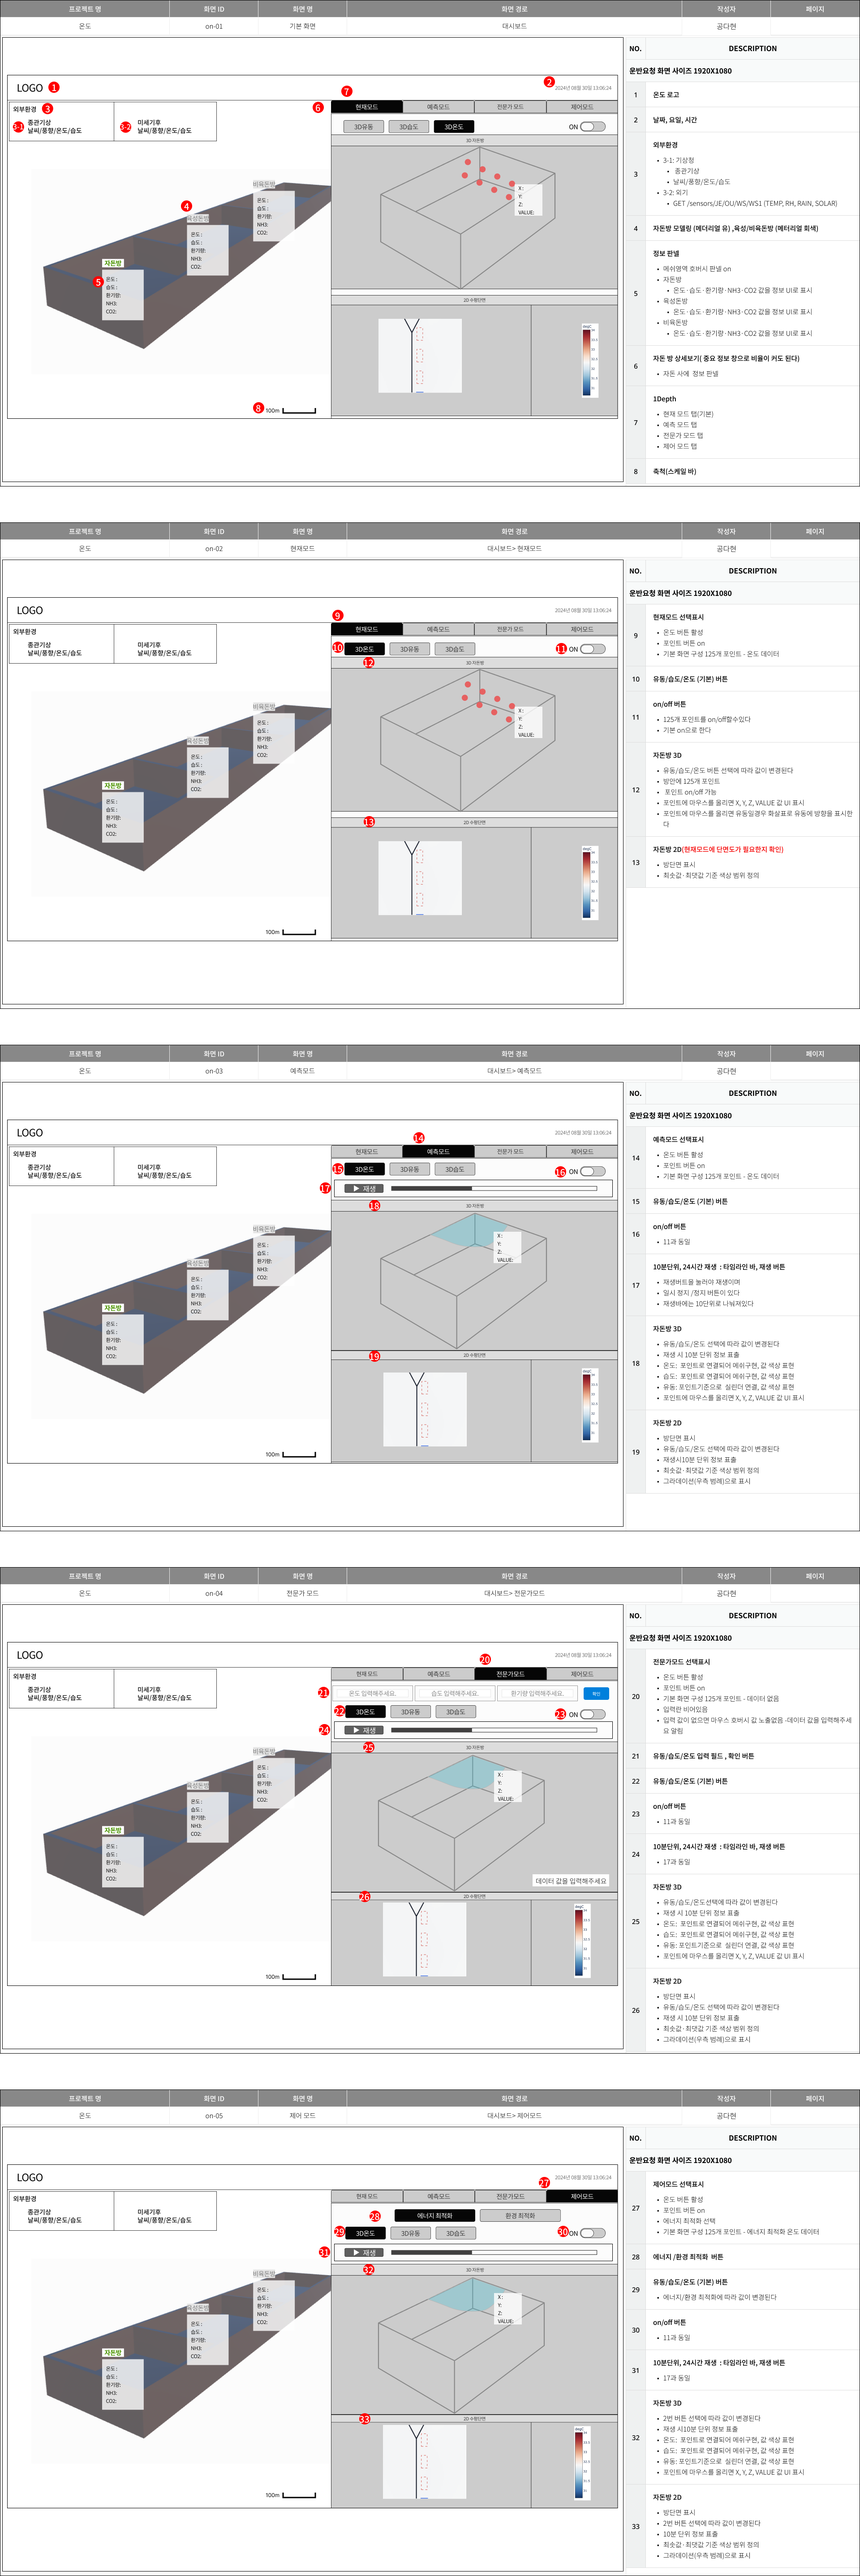
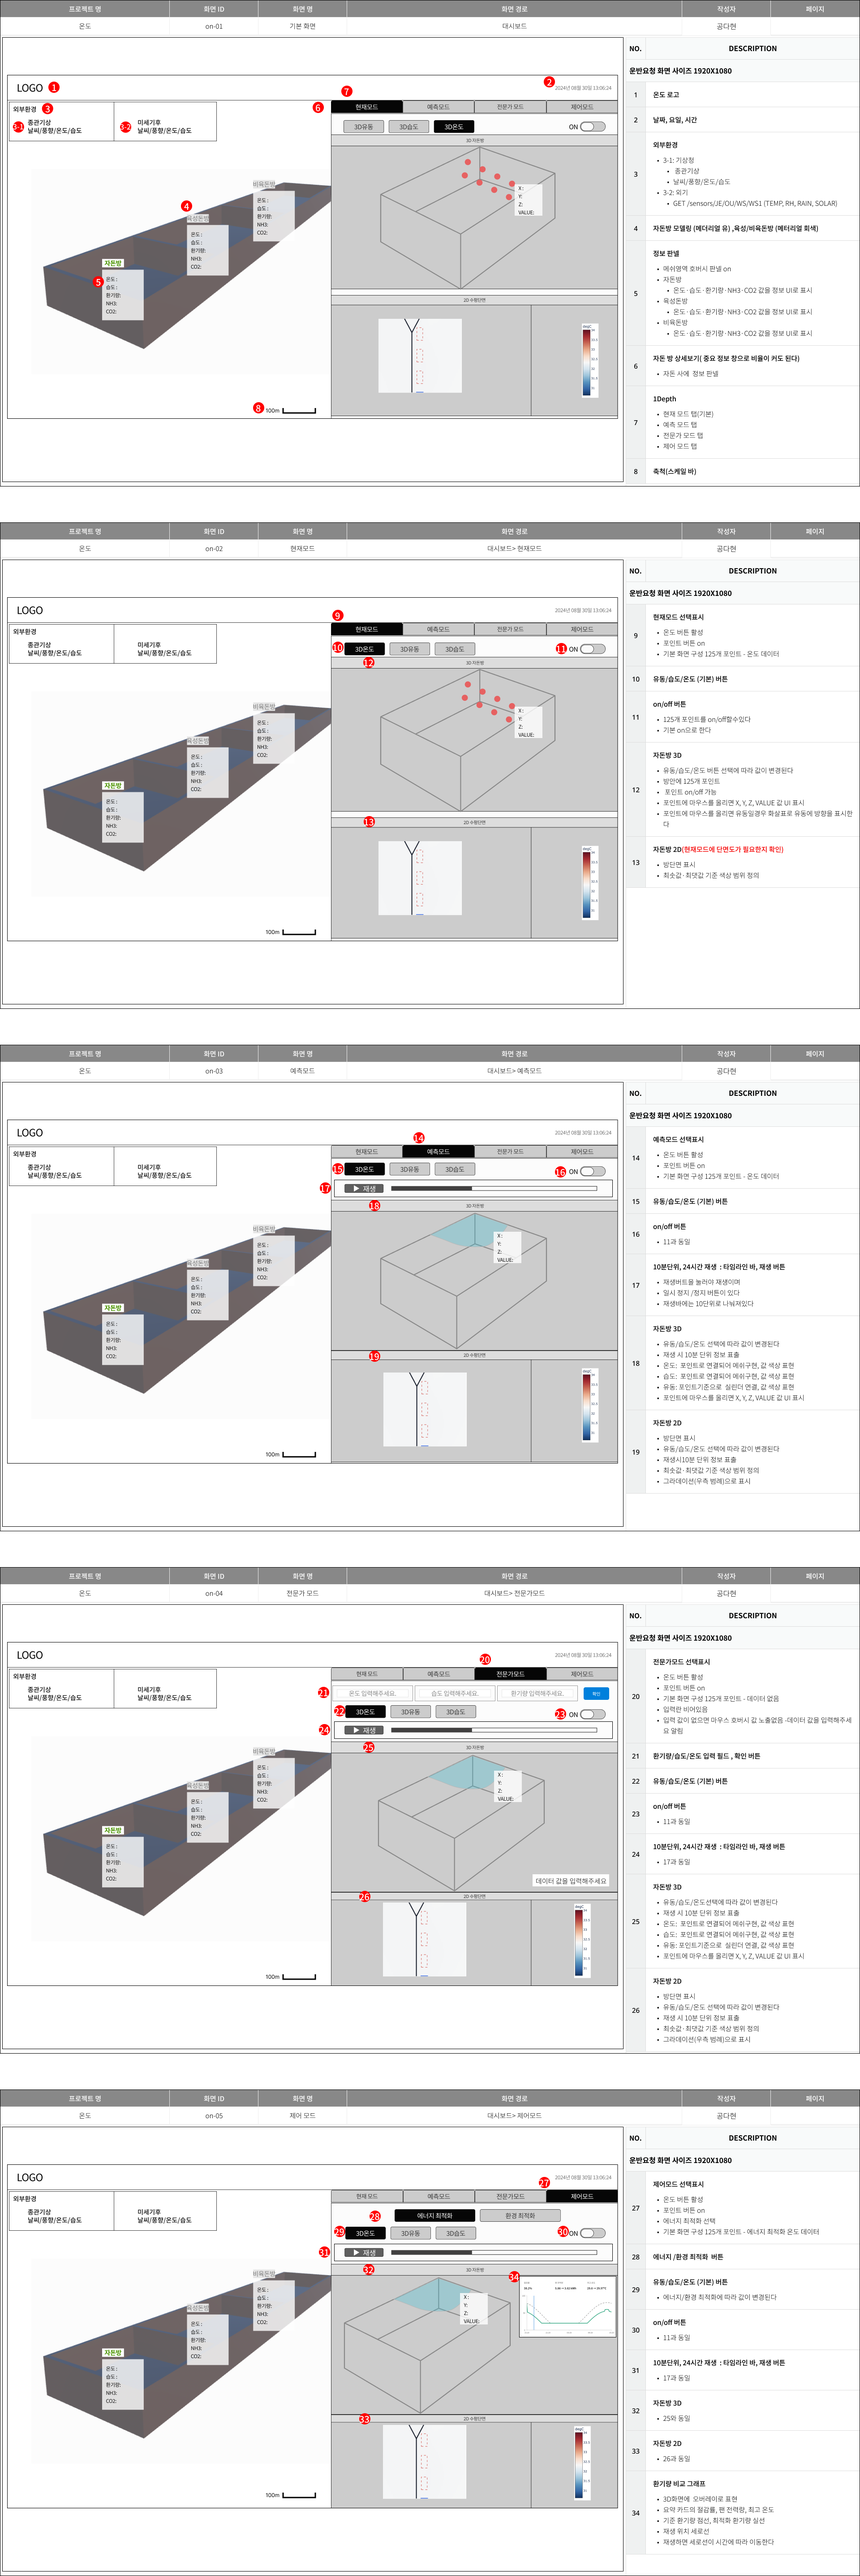
docs: 화면설계서 C안 반영본 갱신 + 제어 모드 요약카드 레퍼런스 추가
screen-design.png를 on-05 34번(환기량 비교 그래프, C안 오버레이)이 반영된
최신본으로 교체하고, 요약카드+그래프 상세 레퍼런스(control-c-summary-card.png)를
추가해 01-functional-spec.md/05-open-questions.md #28에서 링크했다.

Changed region(s): [[0.4688, 0.8724, 0.7188, 0.9347], [0.75, 0.9347, 0.9062, 0.997]]

diff --git a/docs/05-open-questions.md b/docs/05-open-questions.md
@@ -31,4 +31,4 @@
 | 25 | 제어 모드 `control` 블록 누락 | 온도 | ✅ 2026-10-08 확정: `연산서버_첨부파일_v2_20261008/mock_control.json`에 `control` 블록 반영 확인(`baseline_fan_pct`·`optimized_fan_pct`·`baseline_T_mean`·`optimized_T_mean` 각 145개, `energy_kwh.{baseline,optimized}`, `saving_pct`, `T_max.{baseline,optimized}`, `constraint.T_mean_max`, 추가로 `fan_rated_kw`·`power_model`). 배열 순서는 `frames`와 같고 시간축은 `frames[i].time` 공용. 곡선·절감률 표시 위치는 C안 확정(아래 28 참고) |
 | 26 | 입력 간격 5분 전환 — 집계·결측 처리 방식 | 온도 | ✅ 2026-10-08 확정(2026-10-07 항목 대체): 센서 서버는 1분 간격만 제공 확인됨 → **A안(중계 서버 집계)**로 확정, 센서 서버 5분 간격 조회 시도 불필요. 1단계 5분 값 = 1분값 t−4~t 5개 평균(null 제외, 전부 null이면 null; 구현 부담 시 5분 마크 1분값 그대로 사용 가능, 반올림 금지). 2단계 짧은 결측(연속 ≤3행=15분)은 선형 보간, 구간 끝이 비면 가장 가까운 값 복사. 3단계 긴 결측(연속 ≥4행=20분, 또는 37행 중 >8행=20%초과)은 센서 오류 판정 → 연산 서버 미호출, 화면에 "센서 오류: <항목명> (<경로>) — 최근 3시간 중 N분 결측" 표시(기상대 온도 `JE/OU/WS/WS1/TEMP`·기상대 습도 `JE/OU/WS/WS1/RH`·환기팬 가동률 `JE/EX/NH/FN1/FAN1` 각각 판정, 다건이면 모두 나열, 마지막 정상 결과는 시각과 함께 유지 표시). 4단계 범위 검사(온도 −30~50℃·습도 0~100%·팬 0~100%) 밖 값은 null로 보고 2·3단계 재적용. 예측 모드 기상청 예보도 동일 개념: 1시간 값 결측은 앞뒤 정시 보간, 연속 3시간 이상 결측 또는 조회 실패면 "기상청 예보 조회 실패" 표시 후 연산 서버 미호출. 임계값은 `.env`: `AGG_INTERP_MAX_GAP`·`AGG_ERROR_MIN_GAP`·`AGG_ERROR_MAX_RATIO`·`FORECAST_GAP_MAX_HOURS`. 02·03 문서 동기화는 04-tasks.md 작업 그대로 진행 |
 | 27 | mock_control 파일 분리 | 개발자 결정 | ✅ 확정(개발자 2026-10-07): 목업 작업이라 에너지·환경 어느 쪽이든 버튼 클릭 시 데이터 하나만 보이면 충분 — `mock_control_energy.json`/`mock_control_environment.json` 중 target에 맞는 파일을 그대로 쓰면 되고 추가 확인 불필요 |
-| 28 | 제어 모드 절감률·곡선 표시 위치 | 온도 | ✅ 2026-10-08 확정: C안(화면설계서 on-05 34번, 32번 3D 영역 오버레이). 요약 카드 3항목(절감률 `savingPct`·팬 전력량 `energyKwh.baseline→optimized`·최고 온도 `T_max.baseline→optimized`) + 그래프(y축 0~100%, x축 24시간 6시간 간격 눈금). 기준 환기량은 점선, 최적화 환기량은 실선, 재생 위치는 세로선으로 타임라인과 연동해 이동 |
+| 28 | 제어 모드 절감률·곡선 표시 위치 | 온도 | ✅ 2026-10-08 확정: C안(화면설계서 on-05 34번, 32번 3D 영역 오버레이). 요약 카드 3항목(절감률 `savingPct`·팬 전력량 `energyKwh.baseline→optimized`·최고 온도 `T_max.baseline→optimized`) + 그래프(y축 0~100%, x축 24시간 6시간 간격 눈금). 기준 환기량은 점선, 최적화 환기량은 실선, 재생 위치는 세로선으로 타임라인과 연동해 이동. 레퍼런스: `docs/design/screen-design.png`(on-05 34번), `docs/design/control-c-summary-card.png`(요약카드+그래프 상세) |

diff --git a/docs/01-functional-spec.md b/docs/01-functional-spec.md
@@ -112,7 +112,7 @@
 
 - 에너지 최적화 / 환경 최적화 전환 버튼(28). 기본값 에너지 최적화.
 - 탭 선택 시 `target=energy`, 버튼 전환 시 해당 target으로 `GET /api/detail/control`. 응답의 `control` 블록(기준·최적화 환기량, 절감률, 전력량, 최고 온도)을 사용. 현재는 목업 응답.
-- 환기량 비교 그래프(34, 32번 3D 영역 오버레이, C안·2026-10-08 화면설계서 확정): 요약 카드(절감률 `control.savingPct`, 팬 전력량 `control.energyKwh.baseline → optimized`, 최고 온도 `control.T_max.baseline → optimized`) + 그래프(y축 0~100%, x축 24시간 6시간 간격 눈금). 기준 환기량(`control.baselineFanPct`)은 점선, 최적화 환기량(`control.optimizedFanPct`)은 실선. 재생 위치는 세로선으로 표시하고 재생 중 타임라인과 함께 이동한다. 두 곡선은 `frames[i].time`(10분 간격 145프레임)을 시간축으로 공유.
+- 환기량 비교 그래프(34, 32번 3D 영역 오버레이, C안·2026-10-08 화면설계서 확정): 요약 카드(절감률 `control.savingPct`, 팬 전력량 `control.energyKwh.baseline → optimized`, 최고 온도 `control.T_max.baseline → optimized`) + 그래프(y축 0~100%, x축 24시간 6시간 간격 눈금). 기준 환기량(`control.baselineFanPct`)은 점선, 최적화 환기량(`control.optimizedFanPct`)은 실선. 재생 위치는 세로선으로 표시하고 재생 중 타임라인과 함께 이동한다. 두 곡선은 `frames[i].time`(10분 간격 145프레임)을 시간축으로 공유. 레퍼런스: `docs/design/screen-design.png`(on-05 34번), `docs/design/control-c-summary-card.png`(요약카드+그래프 상세).
 - 타임라인(31) 재생.
 
 ### 4.5 타임라인 (17·24·31)
